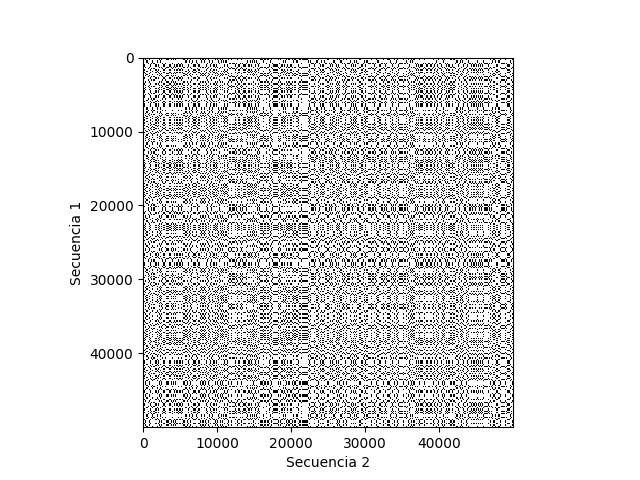
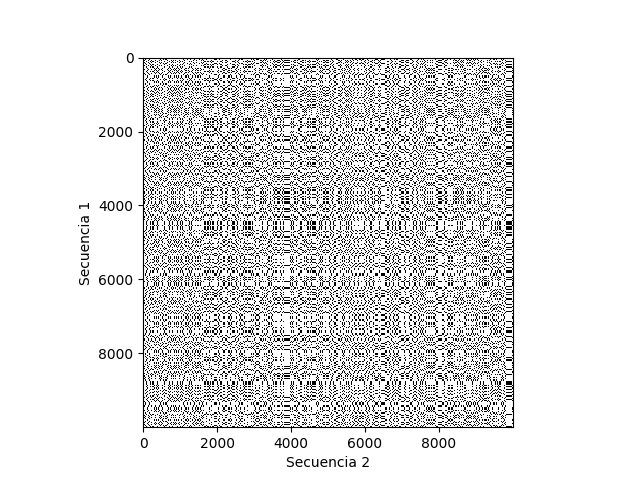
tiempos  hilos

Changed region(s): [[0.0938, 0.125, 0.8125, 0.9375]]

diff --git a/dotplot_hilos.py b/dotplot_hilos.py
@@ -27,7 +27,18 @@ def worker(merged_sequence_1, merged_sequence_2, task_queue, result_queue):
         compute_dotplot_section(start_i, end_i, start_j, end_j, merged_sequence_1, merged_sequence_2, result_queue)
         task_queue.task_done()
 
+def draw_dotplot(matrix, fig_name):
+    start_time = time.time()  # Tiempo inicial para la generación de la imagen
+    plt.imshow(matrix, cmap='Greys', interpolation='none')
+    plt.ylabel("Secuencia 1")
+    plt.xlabel("Secuencia 2")
+    plt.savefig(fig_name)
+    plt.close()
+    end_time = time.time()  # Tiempo final para la generación de la imagen
+    print(f"Tiempo para generar y guardar la imagen: {end_time - start_time:.2f} segundos")
+
 def main(file1, file2, output_file, max_length, num_threads=4):
+    start_time = time.time()  # Tiempo inicial para la ejecución del programa
 
     merged_sequence_1 = merge_sequences_from_fasta(file1)[0:max_length]
     merged_sequence_2 = merge_sequences_from_fasta(file2)[0:max_length]
@@ -35,9 +46,7 @@ def main(file1, file2, output_file, max_length, num_threads=4):
     print(len(merged_sequence_1))
     print(len(merged_sequence_2))
 
-    begin = time.time()
-    block_size = max_length//num_threads
-
+    block_size = max_length // num_threads
 
     task_queue = Queue()
     result_queue = Queue()
@@ -59,6 +68,8 @@ def main(file1, file2, output_file, max_length, num_threads=4):
     for thread in threads:
         thread.join()
 
+    calc_end_time = time.time()  # Tiempo final para los cálculos
+
     dotplot = np.zeros([len(merged_sequence_1), len(merged_sequence_2)], dtype=np.uint8)
 
     while not result_queue.empty():
@@ -67,15 +78,12 @@ def main(file1, file2, output_file, max_length, num_threads=4):
         end_j = start_j + local_dotplot.shape[1]
         dotplot[start_i:end_i, start_j:end_j] = local_dotplot
 
-    print(f"\n El código se ejecutó en: {time.time() - begin} segundos")
+    print(f"Tiempo de cálculo para generar el dotplot: {calc_end_time - start_time:.2f} segundos")
 
-    def draw_dotplot(matrix, fig_name=output_file):
-        plt.imshow(matrix, cmap='Greys', interpolation='none')
-        plt.ylabel("Secuencia 1")
-        plt.xlabel("Secuencia 2")
-        plt.savefig(fig_name)
+    draw_dotplot(dotplot, output_file)
 
-    draw_dotplot(dotplot)
+    end_time = time.time()  # Tiempo final para la ejecución del programa
+    print(f"Tiempo total de ejecución del programa: {end_time - start_time:.2f} segundos")
 
 if __name__ == "__main__":
     parser = argparse.ArgumentParser(description="Generar dotplot de dos secuencias utilizando hilos")
@@ -90,4 +98,4 @@ if __name__ == "__main__":
     main(args.file1, args.file2, args.output, args.max_length, args.num_threads)
 
 # ejecutar con:  
-# python .\dotplot_secuencial.py --file1 .\dotplot_files\Salmonella.fna --file2 .\dotplot_files\E_coli.fna --max_length 10000 --output .\dotplot_secuencial.png
+# python .\dotplot_hilos.py --file1 .\dotplot_files\Salmonella.fna --file2 .\dotplot_files\E_coli.fna --max_length 10000 --output .\dotplot_hilos.png
